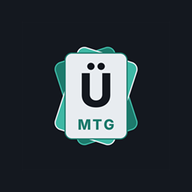
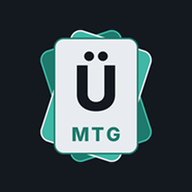
Add files via upload

Changed region(s): [[0.1875, 0.1562, 0.8125, 0.8438]]

diff --git a/index.html b/index.html
@@ -192,6 +192,10 @@ nav.tabs button { position: relative; }
 .rel .chip { border: 1px solid var(--line); cursor: pointer; font: inherit; font-size: 12.5px; min-height: 32px; }
 .qr { width: min(100%, 220px); aspect-ratio: 1; margin: 0 auto; background: #fff; border-radius: 10px; padding: 8px; display: block; }
 .secret { font: 500 13px var(--mono); overflow-wrap: anywhere; text-align: center; user-select: all; }
+.brand-head { display: grid; justify-items: center; gap: 14px; text-align: center; }
+.brand-head h1 { font-size: 26px; }
+.brand-head .logo { width: 112px; height: 112px; border-radius: 24%; display: block; box-shadow: 0 6px 22px rgba(0, 0, 0, .35); }
+.brand-head p { margin: 0; max-width: 34ch; }
 .code-in { text-align: center; font: 600 22px var(--mono); letter-spacing: .3em; }
 @media (prefers-reduced-motion: no-preference) { .sheet { animation: up .18s ease-out; } @keyframes up { from { transform: translateY(14px); opacity: .6; } } .cm-box { animation: pop .14s ease-out; } @keyframes pop { from { transform: scale(.97); opacity: .6; } } }
 </style>
@@ -920,6 +924,12 @@ function deckProblems(d) {
 function hasHardProblem(d) { return deckProblems(d).some(function (x) { return x.k === 'bad'; }); }
 
 /* ---------- ecrã de entrada ---------- */
+// Cabeçalho dos ecrãs de entrada: logótipo da app (o mesmo do ícone), nome e, opcionalmente, uma frase
+function brandHead(sub) {
+  return h('div', { class: 'brand-head' },
+    h('img', { class: 'logo', src: 'icon-192.png', alt: '', width: 112, height: 112, decoding: 'async', onerror: function (e) { e.target.remove(); } }),
+    h('h1', { text: APP_NAME }), sub ? h('p', { class: 'muted', text: sub }) : null);
+}
 function authMsg(m) {   // mensagens do Supabase em português
   m = String(m || '');
   var map = [[/invalid login credentials/i, 'Email ou palavra-passe incorretos.'], [/email not confirmed/i, 'Confirma primeiro o email (vê a tua caixa de correio).'],
@@ -950,7 +960,7 @@ function renderMfaVerify() {
     h('p', { class: 'muted', text: 'Abre a app de autenticação (Google Authenticator, Authy…) e escreve o código de 6 dígitos de «Üligod\'s MTG».' }),
     code, err, submit,
     h('button', { class: 'btn ghost', type: 'button', text: 'Sair', onclick: function () { sb.auth.signOut(); } }));
-  $app.replaceChildren(h('div', { class: 'wrap auth' }, h('div', { class: 'stack' }, h('h1', { text: APP_NAME, style: 'font-size:26px' }), h('div', { class: 'card' }, h('h2', { text: 'Verificação em dois passos' }), form))));
+  $app.replaceChildren(h('div', { class: 'wrap auth' }, h('div', { class: 'stack' }, brandHead(), h('div', { class: 'card' }, h('h2', { text: 'Verificação em dois passos' }), form))));
   code.focus();
 }
 // Nova palavra-passe (ligação do email de recuperação)
@@ -967,7 +977,7 @@ function renderRecovery() {
       toast('Palavra-passe atualizada.'); afterAuth();
     } catch (x) { err.textContent = authMsg(x.message); err.hidden = false; }
   } }, h('label', null, 'Nova palavra-passe (mínimo 8 caracteres)', p1), h('label', null, 'Repete a nova palavra-passe', p2), err, h('button', { class: 'btn', type: 'submit', text: 'Guardar' }));
-  $app.replaceChildren(h('div', { class: 'wrap auth' }, h('div', { class: 'stack' }, h('h1', { text: APP_NAME, style: 'font-size:26px' }), h('div', { class: 'card' }, h('h2', { text: 'Nova palavra-passe' }), form))));
+  $app.replaceChildren(h('div', { class: 'wrap auth' }, h('div', { class: 'stack' }, brandHead(), h('div', { class: 'card' }, h('h2', { text: 'Nova palavra-passe' }), form))));
 }
 // Decide o que mostrar depois de haver sessão: o código do segundo passo (se a conta o tem) ou os dados
 async function afterAuth() {
@@ -1064,7 +1074,7 @@ function renderAuth(msg) {
     } }));
   $app.replaceChildren(h('div', { class: 'wrap auth' },
     h('div', { class: 'stack' },
-      h('div', null, h('h1', { text: APP_NAME, style: 'font-size:26px' }), h('p', { class: 'muted', text: 'Standard e Alchemy no MTG Arena. Os teus decks, a tua carteira e os avisos de banlist e rotação.' })),
+      brandHead('Standard e Alchemy no MTG Arena. Os teus decks, a tua carteira e os avisos de banlist e rotação.'),
       h('div', { class: 'card' }, title, form),
       msg ? h('div', { class: 'note', text: msg }) : null,
       h('div', { class: 'who', style: 'justify-content:center' }, themeBtn()))));

diff --git a/sw.js b/sw.js
@@ -12,8 +12,9 @@
  * v8–v10: acertos de interface (ver histórico do projeto).
  * v11: verificação em dois passos (MFA), recuperação de palavra-passe, tema claro/escuro, edição de decks, importador de coleção
  *      (JSON do tracker/CSV/texto), faces e cartas relacionadas pelo Scryfall com cache, botão «voltar» do Android, dados offline,
- *      gravação segura do Player.log, ícones «maskable». */
-var CACHE = 'uligod-mtg-shell-v11';
+ *      gravação segura do Player.log, ícones «maskable».
+ * v12: ícones maiores (logótipo a ~72 % do quadrado, como as outras apps) e logótipo no ecrã de entrada. */
+var CACHE = 'uligod-mtg-shell-v12';
 var SHELL = ['./', 'index.html', 'manifest.webmanifest', 'icon-192.png', 'icon-512.png', 'icon-maskable-192.png', 'icon-maskable-512.png'];
 
 self.addEventListener('install', function (e) {
